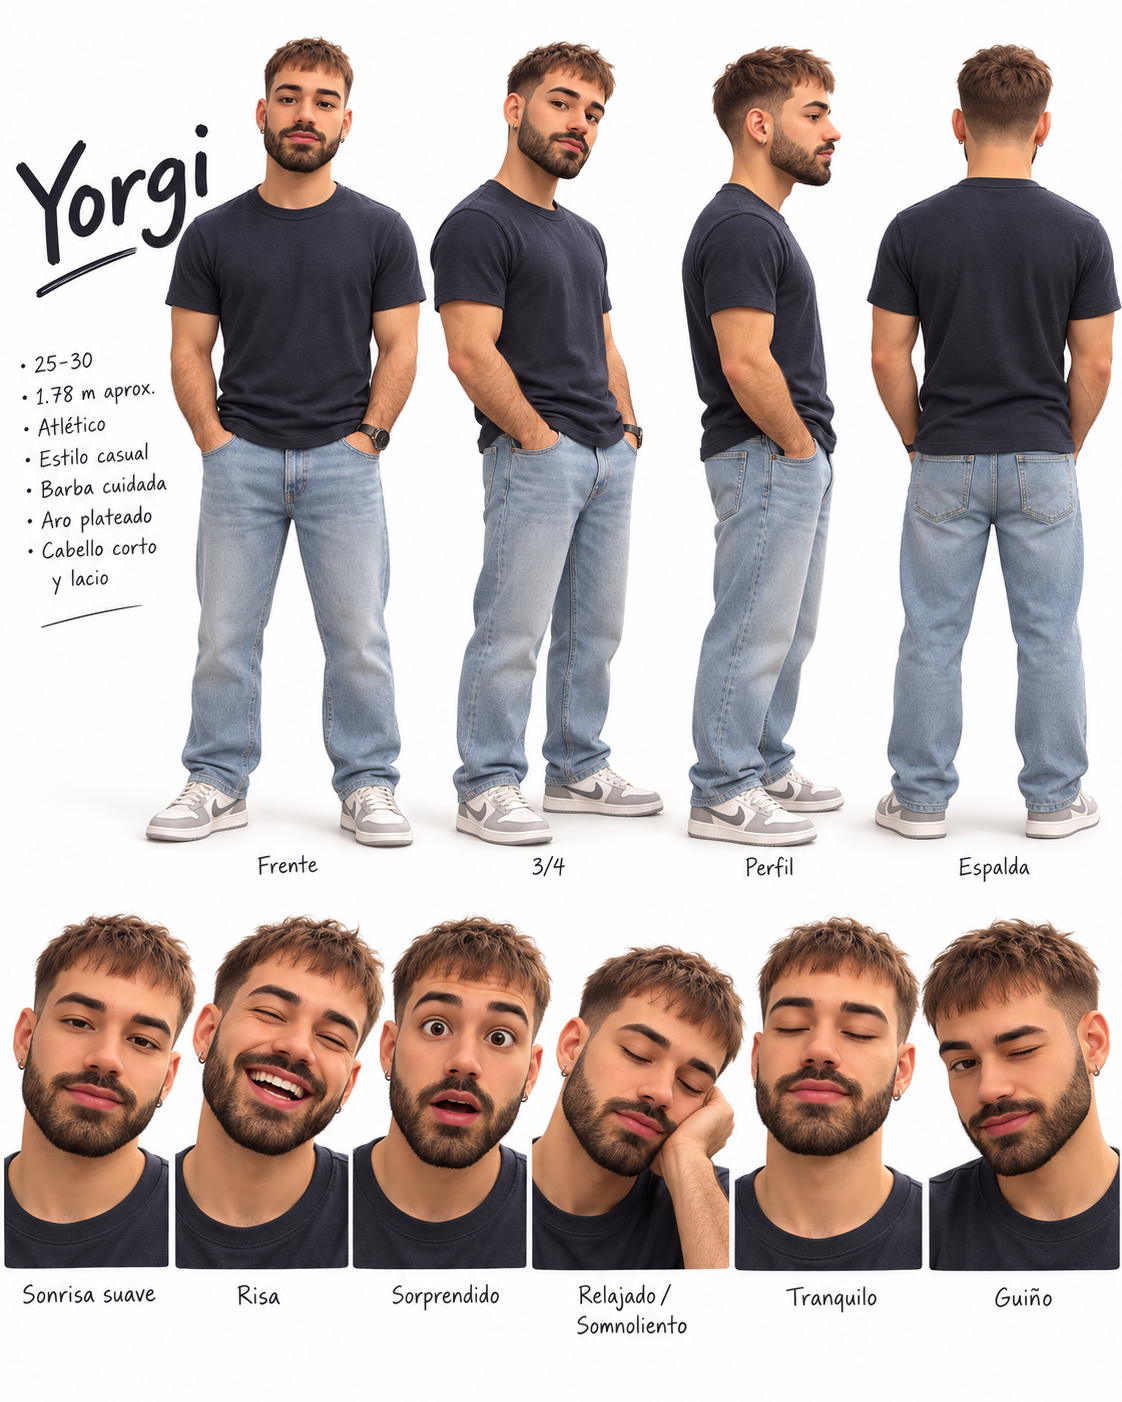
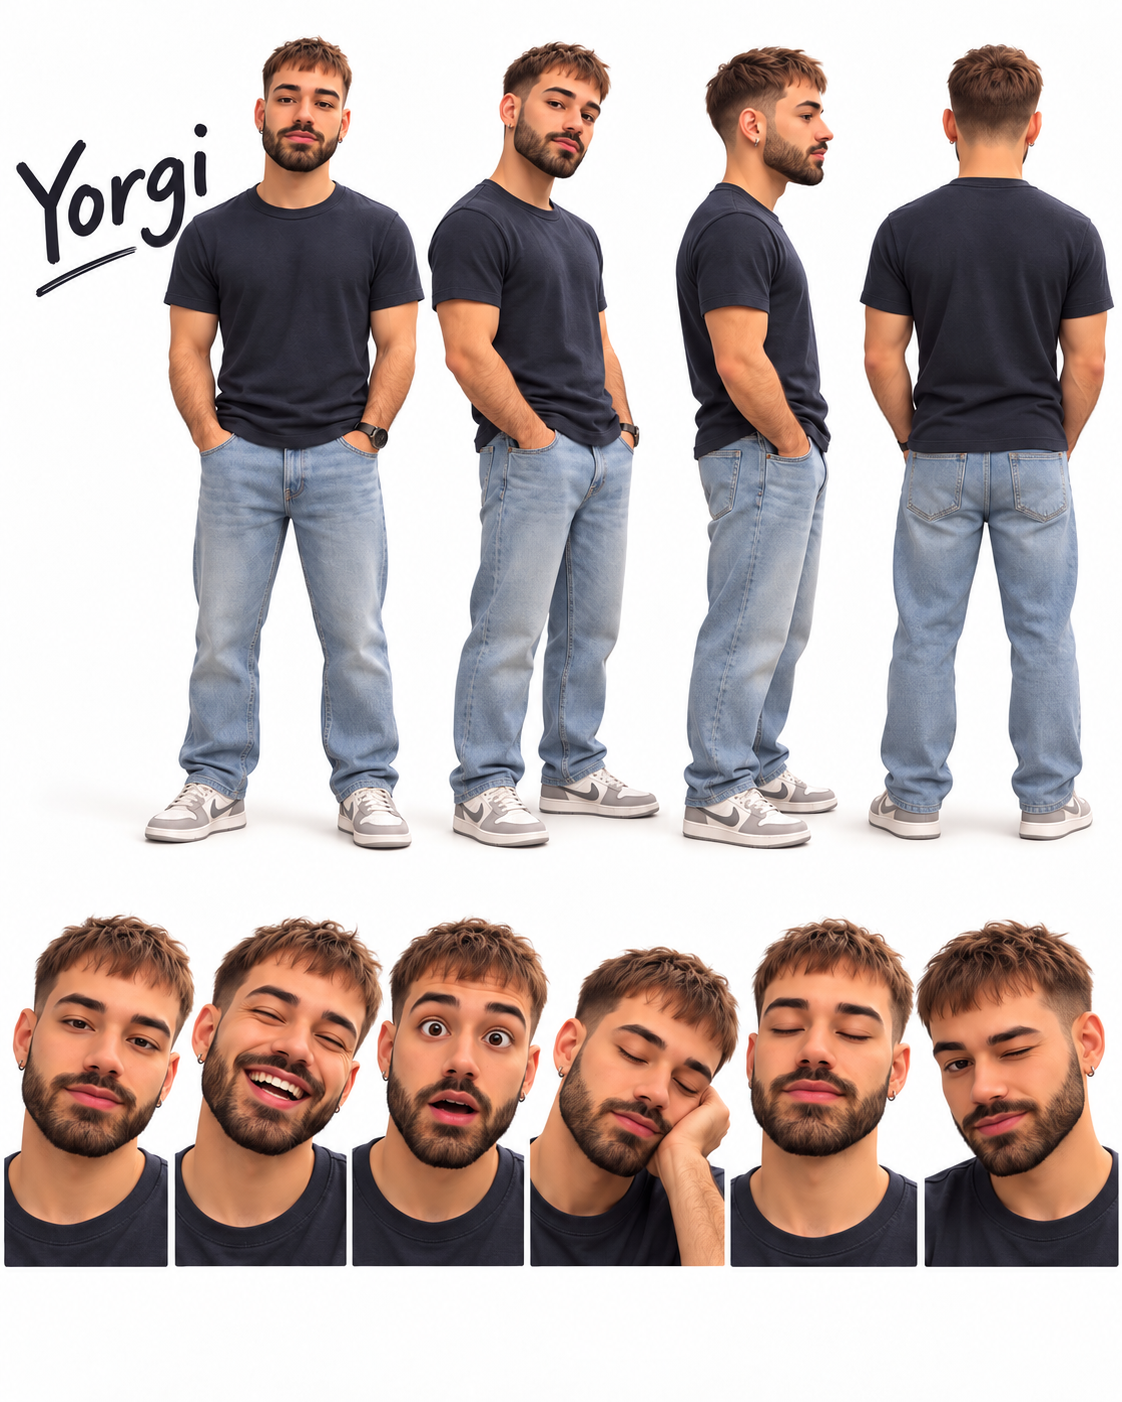
Avatares nuevos: 9 hojas de personaje y fuera las anteriores
Nuevas en animaciones/: Carla, Rodri, Laura, Marta, Paradigma, Sara Saez, Gabacho,
Guillermo Aladro y Yorgi. Se retiran las hojas anteriores (Gabacho, Laura, Marcos,
Rodrigo, Sara y Yorgi); siguen en el historial de git. Las animaciones del banco no
cambian: llevan sus recortes dentro de motor/.

Claude-Session: https://claude.ai/code/session_01EkRiGYvndT2ta5TKvrnmuM

diff --git a/animaciones/banco de animaciones generales por confirmar/motor/avatar-rodrigo.js b/animaciones/banco de animaciones generales por confirmar/motor/avatar-rodrigo.js
@@ -1,6 +1,6 @@
 "use strict";
 /*
- * Avatar de Rodrigo troceado para animarlo (hoja «animaciones/Avatar Rodrigo.png»)
+ * Avatar de Rodrigo troceado para animarlo (hoja «animaciones/Avatar Rodrigo.png», ya retirada del repo: sigue en el historial de git)
  *
  * Mismas piezas que el de Guillermo (torso, brazos en dos piezas, piernas, 6 caras con su pelo dorado), a la misma
  * escala: 77 × 232 unidades con los pies en y = 232. Lleva cazadora negra con camiseta blanca, vaqueros y barba.

diff --git a/animaciones/banco de animaciones generales por confirmar/motor/avatar-marcos.js b/animaciones/banco de animaciones generales por confirmar/motor/avatar-marcos.js
@@ -1,6 +1,6 @@
 "use strict";
 /*
- * Avatar de Marcos troceado para animarlo (hoja «animaciones/Avatar Marcos.png»)
+ * Avatar de Marcos troceado para animarlo (hoja «animaciones/Avatar Marcos.png», ya retirada del repo: sigue en el historial de git)
  *
  * Mismas piezas que el de Guillermo (torso, brazos en dos piezas, piernas, 6 caras con su pelo dorado), a la misma
  * escala: 77 × 232 unidades con los pies en y = 232. Pelo rizado oscuro, camiseta negra de manga corta (brazos
